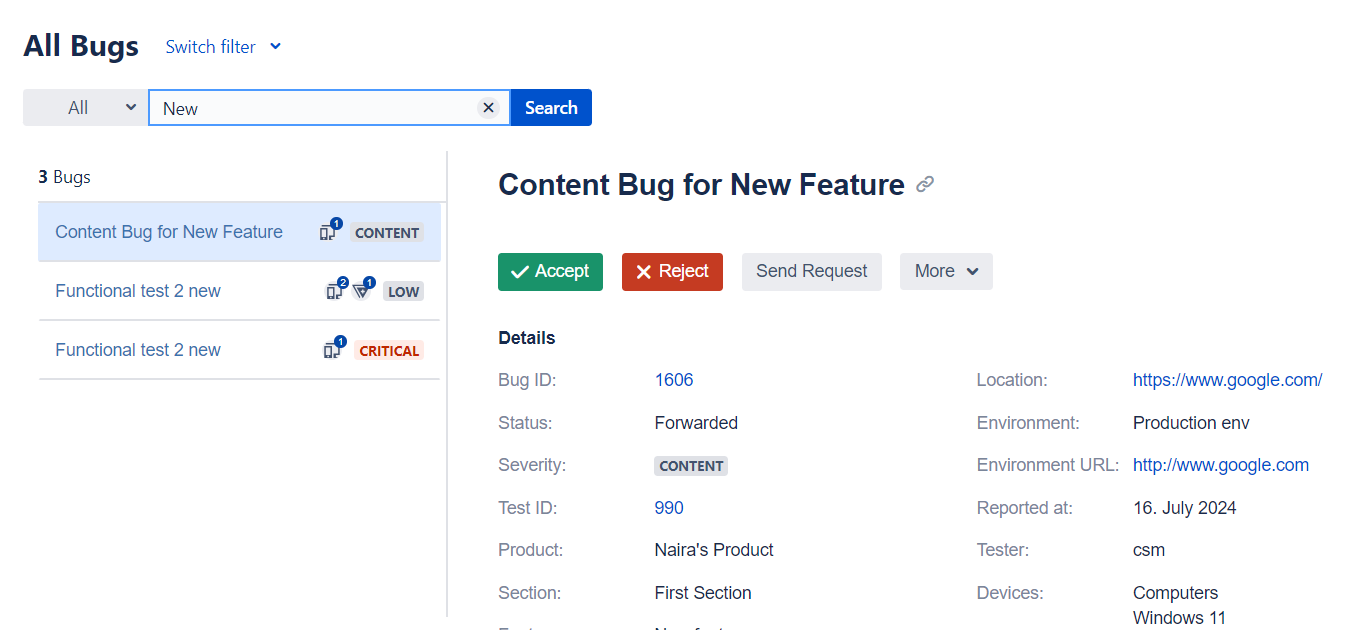
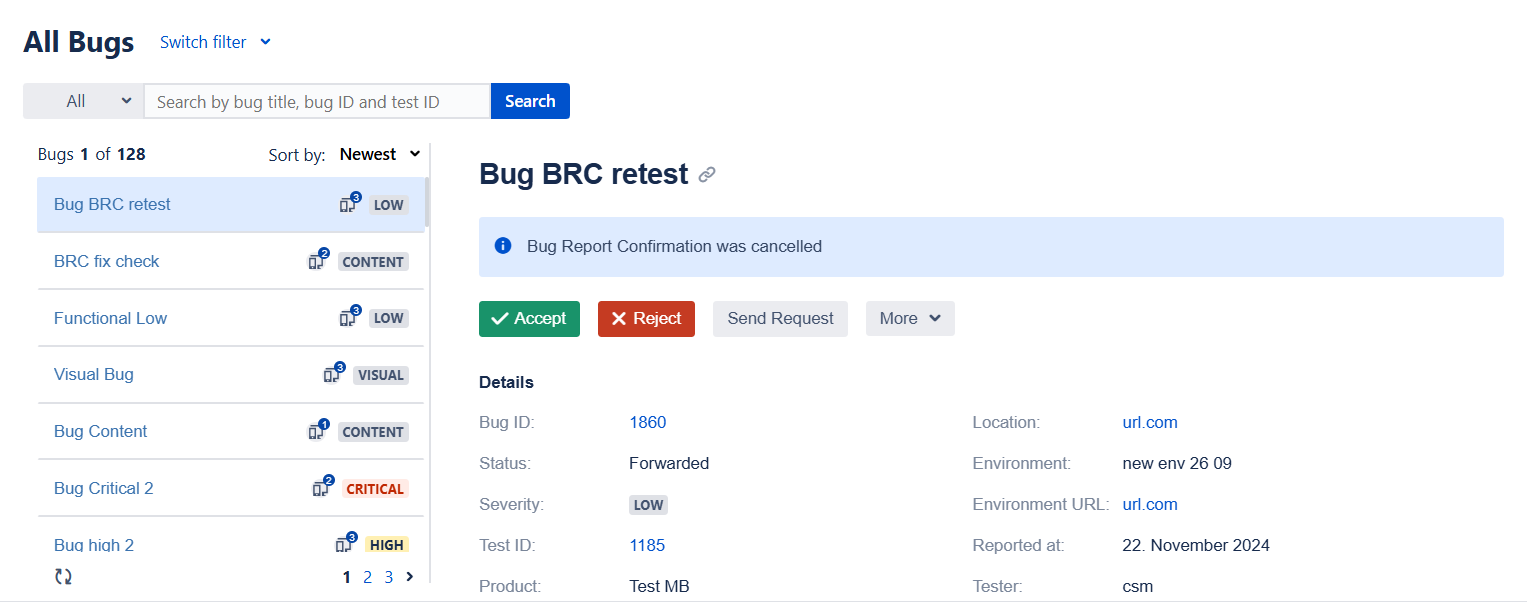
Changes on Bug Preview Modes page

diff --git a/src/pages/docs/jira_server/bugs_preview_modes.md b/src/pages/docs/jira_server/bugs_preview_modes.md
@@ -76,6 +76,10 @@ First, **apply a search** to view results based on your specified criteria. You 
 
 {% screenshot src="/assets/jira_server/bugs_preview_modes/10.png" caption="Search in All Bugs page" type="narrow center" /%}
 
+You can **sort bugs** on the "All Bugs" page by **Newest**, **Oldest**, **A to Z**, **Z to A**.
+
+{% screenshot src="/assets/jira_server/bugs_preview_modes/12.png" caption="Sort by on All Bugs page" type="narrow center" /%}
+
 You will be able to interact with bugs and perform available actions on specific bugs directly from the "All Bugs" page.
 
 {% screenshot src="/assets/jira_server/bugs_preview_modes/11.png" caption="Search results in All Bugs page" /%}
